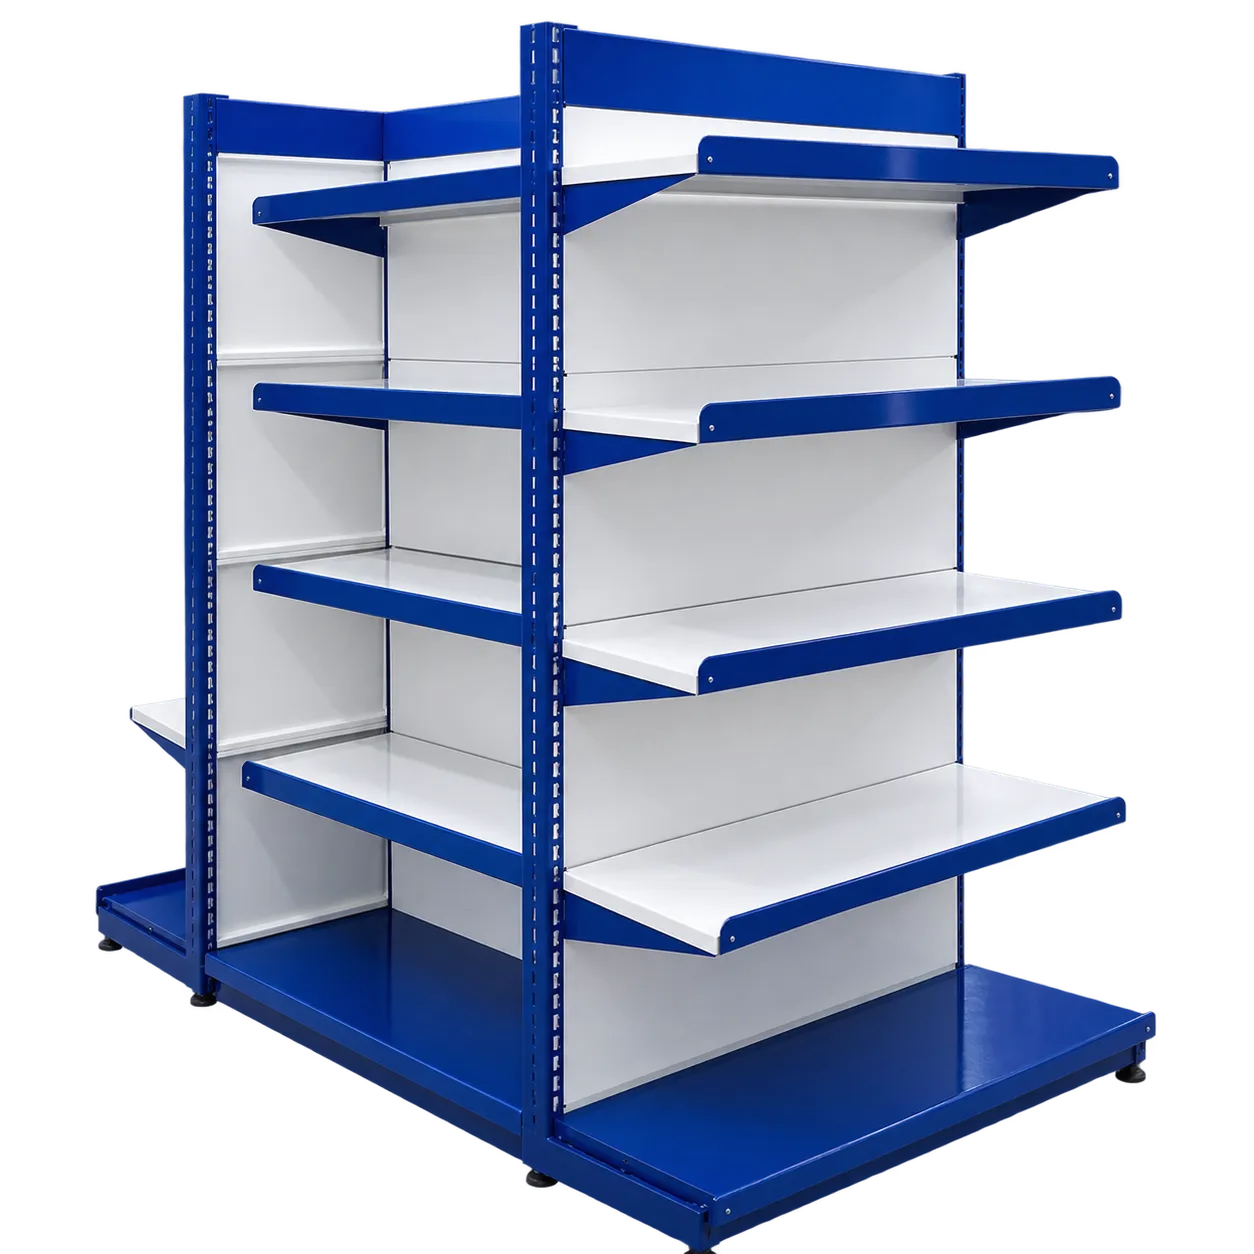
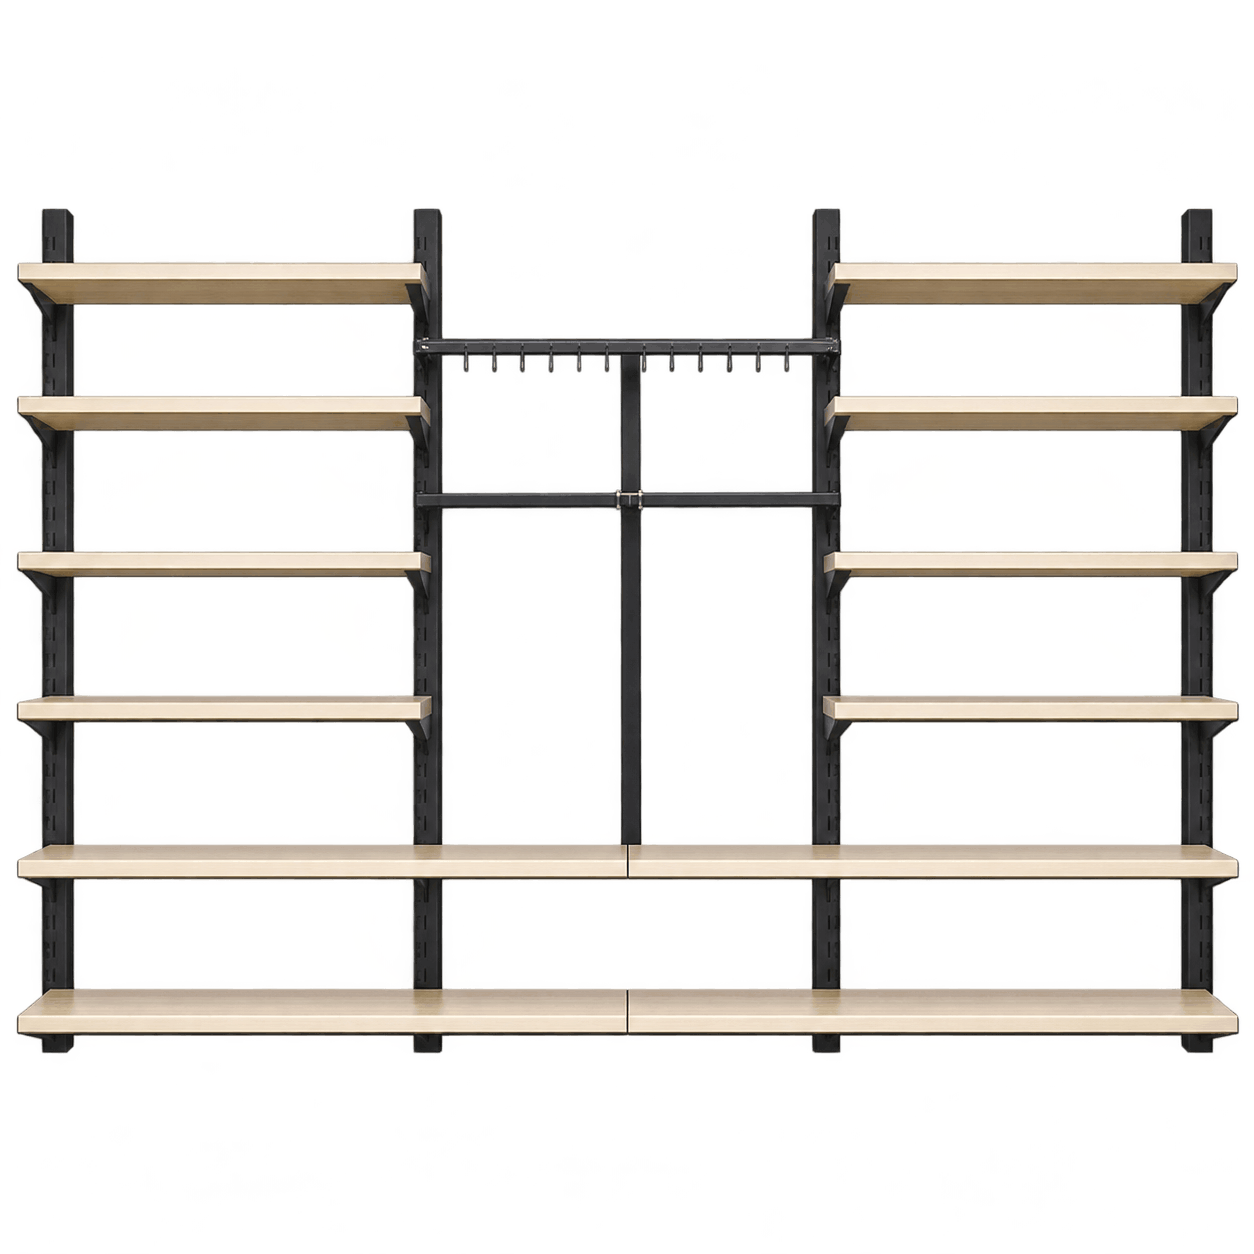
add

diff --git a/src/utils/data.js b/src/utils/data.js
@@ -2,8 +2,8 @@ export default [
     {
         "name": "Kirana & Grocery Store Supermarket Racks",
         "slug": "kirana-and-grocery-store-supermarket-racks",
-        "image": "/3.webp",
-        "png": "/products/1.webp",
+        "image": "/categories/1.webp",
+        "png": "/categories/11.webp",
         "products": [
             {
                 "name": "Wall Mounted Kirana Store Supermarket Rack",
@@ -13,9 +13,8 @@ export default [
                 "metaDescription": "Arya Insulation Pvt Ltd manufactures wall mounted kirana store in MS steel. Contact us for customized rack options.",
 
                 images: [
-                    "/products/wall-mounted/front.webp",
-                    "/products/wall-mounted/side.webp",
-                    "/products/wall-mounted/detail.webp",
+                    "/products/2.webp",
+                    "/products/3.webp",
                 ],
 
                 description: "A wall-mounted kirana store rack helps retailers use vertical wall space to organize packaged groceries and everyday essentials. Its MS steel structure provides a stable display framework, while adjustable shelf arrangements can be planned around different product sizes.",
@@ -379,8 +378,8 @@ export default [
     {
         "name": "Hypermarket & Departmental Store Supermarket Racks",
         "slug": "hypermarket-and-departmental-store-supermarket-racks",
-        "image": "/categories/hypermarket-and-departmental-store-supermarket-racks.webp",
-        "png": "/products/2.webp",
+        "image": "/categories/2.webp",
+        "png": "/categories/12.webp",
         "products": [
             {
                 "name": "Double Sided Gondola Supermarket Rack",
@@ -806,8 +805,8 @@ export default [
     {
         "name": "Convenience Store & Mini Mart Supermarket Racks",
         "slug": "convenience-store-and-mini-mart-supermarket-racks",
-        "image": "/categories/convenience-store-and-mini-mart-supermarket-racks.webp",
-        "png": "/products/4.webp",
+        "image": "/categories/3.webp",
+        "png": "/categories/13.webp",
         "products": [
             {
                 "name": "Compact Mini Mart Supermarket Rack",
@@ -1246,8 +1245,8 @@ export default [
     {
         "name": "Medical & Pharmacy Store Supermarket Racks",
         "slug": "medical-and-pharmacy-store-supermarket-racks",
-        "image": "/categories/medical-and-pharmacy-store-supermarket-racks.webp",
-        "png": "/products/5.webp",
+        "image": "/categories/4.webp",
+        "png": "/categories/14.webp",
         "products": [
             {
                 "name": "Medical Store Wall Supermarket Rack",
@@ -1693,8 +1692,8 @@ export default [
     {
         "name": "Fruit, Vegetable & Organic Store Supermarket Racks",
         "slug": "fruit-vegetable-and-organic-store-supermarket-racks",
-        "image": "/categories/fruit-vegetable-and-organic-store-supermarket-racks.webp",
-        "png": "/products/6.webp",
+        "image": "/categories/5.webp",
+        "png": "/categories/15.webp",
         "products": [
             {
                 "name": "Fruit & Vegetable Supermarket Rack",
@@ -2055,8 +2054,8 @@ export default [
     {
         "name": "Bakery, Snacks & Beverage Supermarket Racks",
         "slug": "bakery-snacks-and-beverage-supermarket-racks",
-        "image": "/categories/bakery-snacks-and-beverage-supermarket-racks.webp",
-        "png": "/products/7.webp",
+        "image": "/categories/6.webp",
+        "png": "/categories/16.webp",
         "products": [
             {
                 "name": "Bakery Bread Supermarket Rack",
@@ -2475,8 +2474,8 @@ export default [
     {
         "name": "Mobile & Electronics Store Supermarket Racks",
         "slug": "mobile-and-electronics-store-supermarket-racks",
-        "image": "/categories/mobile-and-electronics-store-supermarket-racks.webp",
-        "png": "/products/8.webp",
+        "image": "/categories/7.webp",
+        "png": "/categories/17.webp",
         "products": [
             {
                 "name": "Mobile Accessories Supermarket Rack",
@@ -2896,8 +2895,8 @@ export default [
     {
         "name": "Cosmetic & Personal Care Store Supermarket Racks",
         "slug": "cosmetic-and-personal-care-store-supermarket-racks",
-        "image": "/categories/cosmetic-and-personal-care-store-supermarket-racks.webp",
-        "png": "/products/9.webp",
+        "image": "/categories/8.webp",
+        "png": "/categories/18.webp",
         "products": [
             {
                 "name": "Cosmetic Store Supermarket Rack",
@@ -3373,8 +3372,8 @@ export default [
     {
         "name": "Stationery, Toy & Gift Store Supermarket Racks",
         "slug": "stationery-toy-and-gift-store-supermarket-racks",
-        "image": "/categories/stationery-toy-and-gift-store-supermarket-racks.webp",
-        "png": "/products/10.webp",
+        "image": "/categories/9.webp",
+        "png": "/categories/19.webp",
         "products": [
             {
                 "name": "Stationery Store Supermarket Rack",
@@ -3900,8 +3899,8 @@ export default [
     {
         "name": "Hardware, Paint & Home Store Supermarket Racks",
         "slug": "hardware-paint-and-home-store-supermarket-racks",
-        "image": "/categories/hardware-paint-and-home-store-supermarket-racks.webp",
-        "png": "/products/2.webp",
+        "image": "/categories/10.webp",
+        "png": "/categories/20.webp",
         "products": [
             {
                 "name": "Hardware Store Supermarket Rack",

diff --git a/src/components/home/Products.jsx b/src/components/home/Products.jsx
@@ -49,8 +49,8 @@ function ProductCard({ category, index }) {
 
                 {/* Category Image */}
 
-                <div className="absolute inset-0 p-6 sm:p-8">
-                    <div className="relative h-full w-full transition-transform duration-700 ease-out group-hover:scale-110">
+                <div className="absolute inset-0 p-3">
+                    <div className="relative h-full w-full transition-transform duration-700 ease-out group-hover:scale-105">
                         <Image
                             src={category.png}
                             alt={category.name}

diff --git a/src/components/layout/ProductMegaMenu.jsx b/src/components/layout/ProductMegaMenu.jsx
@@ -235,7 +235,7 @@ export default function ProductMegaMenu({
 
                                     <div className="relative h-11 w-11 shrink-0 overflow-hidden rounded-md bg-white">
                                         <Image
-                                            src={category.image}
+                                            src={category.png}
                                             alt={category.name}
                                             fill
                                             sizes="44px"
